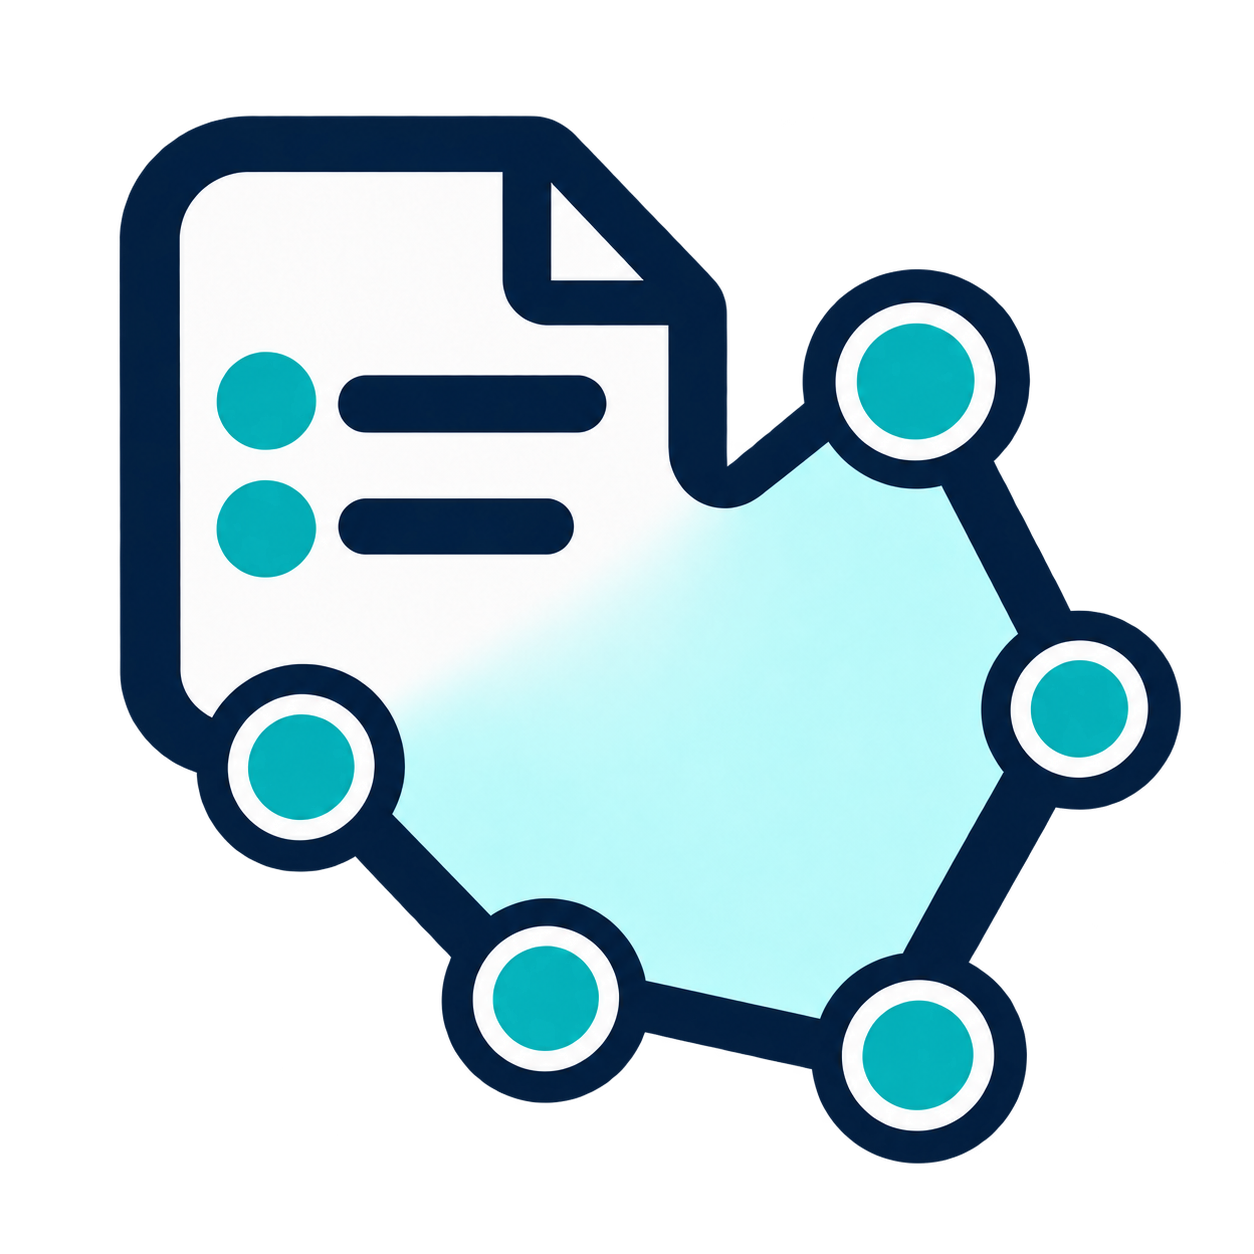
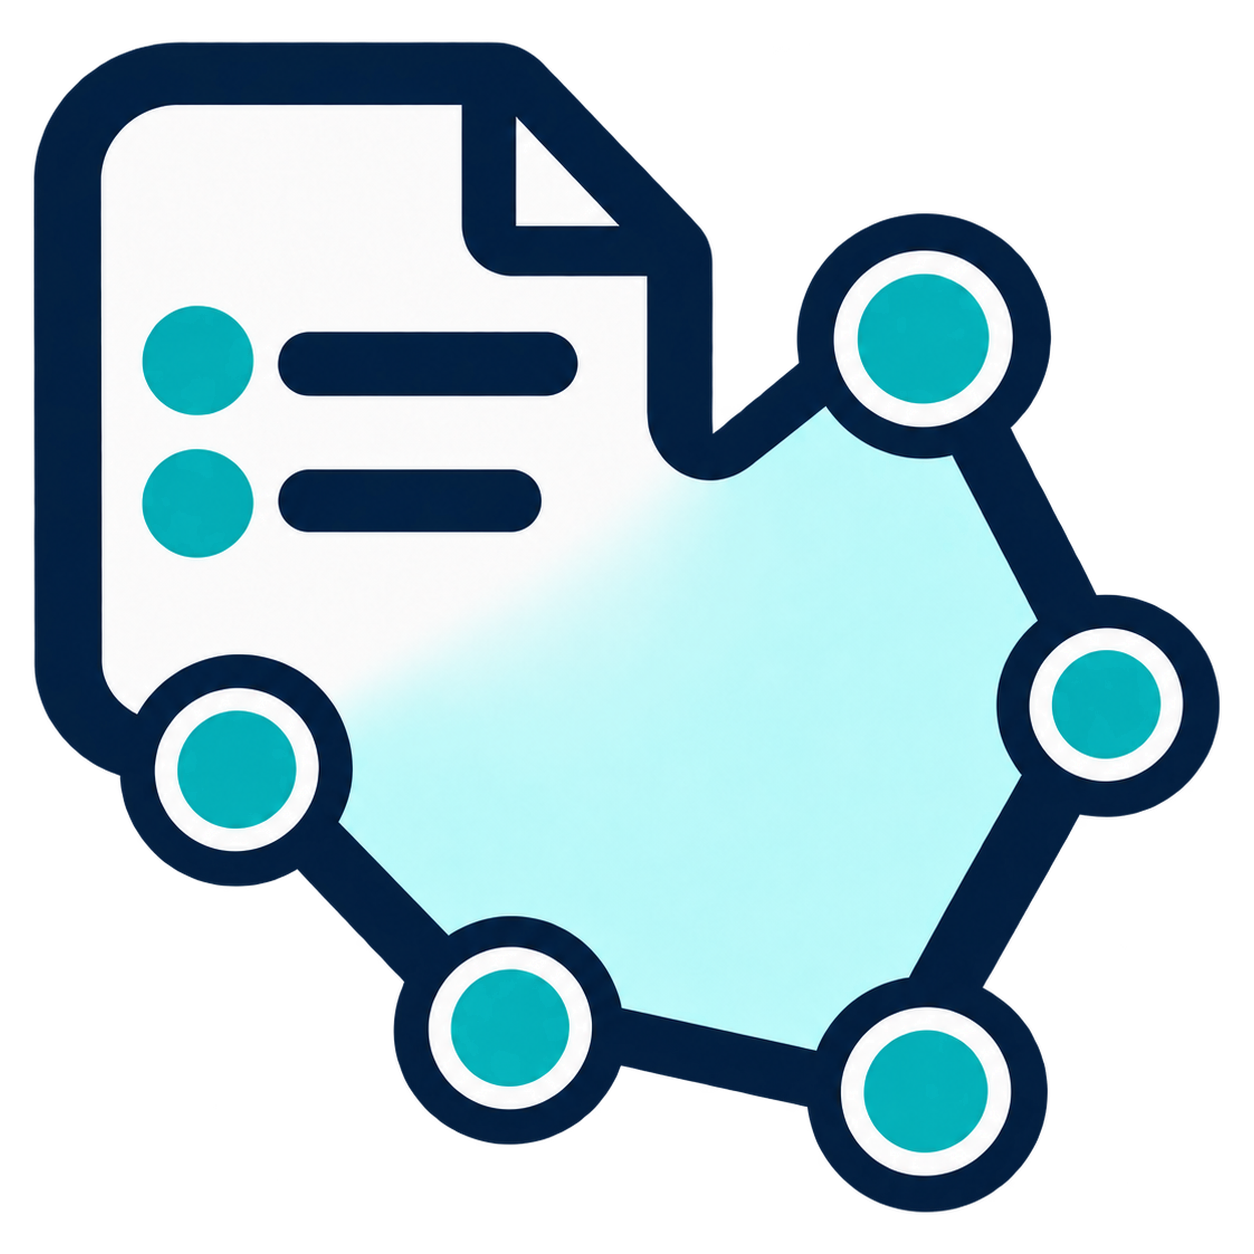
docs(readme): describe current workflow without download links

Changed region(s): [[0.0, 0.0311, 0.9952, 0.9641]]

diff --git a/README.md b/README.md
@@ -4,59 +4,98 @@
 
 <h1 align="center">SnapPlot</h1>
 <p align="center"><strong>From image to outline.</strong></p>
-<p align="center">Transforme imagens de quadros de coordenadas e memoriais em uma lista de pontos e um contorno para o AutoCAD.</p>
+<p align="center">Leia coordenadas em imagens, confira os pontos e prepare contornos para o AutoCAD.</p>
+
+O SnapPlot é um aplicativo para Windows que transforma quadros de coordenadas e memoriais em uma tabela editável, listas de pontos e contornos. O reconhecimento de texto acontece no próprio computador.
+
+![Interface do SnapPlot com imagens, tabela de coordenadas e contornos de dois polígonos](assets/snapplot-interface.png)
+
+*Interface do aplicativo no Windows, com imagens e coordenadas sintéticas de demonstração.*
 
 ## Da imagem ao desenho
 
-1. Adicione uma imagem, arraste capturas para a janela ou cole com **Ctrl+V**.
-2. Clique em **Ler imagem** e confirme as opções de leitura.
-3. Compare os pontos com a imagem e corrija as pendências.
-4. Salve a lista **TXT** ou gere o **SCR** para desenhar o contorno no AutoCAD.
+1. Use **Adicionar** para abrir imagens ou uma lista TXT. Também é possível arrastar arquivos para a janela ou colar imagens com **Ctrl+V**.
+2. Selecione as miniaturas e clique em **Ler imagem** ou **Ler selecionadas**. Use **Ler todas** para processar a fila inteira.
+3. Confirme o tipo de leitura, a ordem dos eixos e o formato dos números da imagem original.
+4. Compare a tabela com a imagem, edite os pontos necessários e marque os valores como conferidos.
+5. Confira os contornos e exporte a lista de coordenadas ou o script para o AutoCAD.
 
-![Conferência de coordenadas no SnapPlot](assets/snapplot-preview.png)
+## Conferência dos pontos
 
-*Aplicativo instalado no Windows, usando um quadro sintético de demonstração.*
+- Consulte a tabela, a **Lista normalizada** e o **Texto extraído** sem perder a imagem de origem.
+- Amplie a conferência para exibir a imagem e a tabela lado a lado, mantendo as três abas disponíveis.
+- Edite, exclua, insira e reordene pontos. Um novo ponto entra abaixo da linha selecionada ou no final da lista.
+- Selecione linhas e imagens por clique, **Ctrl**, **Shift** ou arraste. Clicar fora da área correspondente limpa a seleção.
+- Ao selecionar linhas, os pontos correspondentes ficam destacados no contorno.
+- Use **Ctrl+C** em uma linha para copiar o par E/X e N/Y. Na edição, **Ctrl+V** pode preencher as duas coordenadas de uma vez.
 
-## O que você pode fazer
+As linhas conferidas ficam verdes. O vermelho indica problemas que ainda precisam de intervenção, como valores ilegíveis, ambiguidades, duplicidades ou uma geometria inválida. A descrição aparece ao passar o mouse sobre a linha e no formulário de edição.
 
-- Ler quadros de coordenadas e pares N/E ou X/Y em memoriais.
-- Reunir várias imagens na mesma lista, mudar a ordem e selecionar imagens para ler ou apagar.
-- Consultar o texto extraído e a lista normalizada, com ponto decimal e sem separadores de milhar.
-- Preservar os identificadores dos pontos presentes no documento.
-- Ampliar a imagem, a tabela e a prévia do contorno para facilitar a conferência.
-- Exportar TXT, CSV e scripts SCR para o AutoCAD.
+A falta de conferência, sozinha, não é um erro. Quando o app preenche um identificador ausente, isso fica registrado como informação de origem. A confiança do reconhecimento pode ser consultada na coluna **OCR**.
 
-O reconhecimento acontece **localmente**: as imagens não são enviadas ao GitHub. A conexão é usada para consultar e baixar atualizações. O OCR pode cometer erros; confira as coordenadas e os identificadores antes de exportar. O SnapPlot não converte datum, fuso ou projeção.
+## Vários polígonos no mesmo projeto
 
-## Requisitos
+Cada polígono tem uma letra e uma cor próprias. O primeiro usa **P** por padrão; ao criar outros, escolha uma letra diferente.
 
-- Windows 10 ou Windows 11, 64 bits, processador x64.
-- Não é necessário instalar Python nem ferramentas de desenvolvimento.
-- Internet para baixar o instalador e receber atualizações; a leitura das imagens funciona sem conexão.
-- AutoCAD ou aplicativo compatível para executar o SCR exportado.
+Você pode associar imagens ou pontos selecionados a um grupo existente, criar outro grupo ou copiar pontos mantendo os originais. Ao mover pontos, o app permite escolher se os pontos restantes da origem devem ser renumerados.
 
-## Instalação
+Um novo polígono começa no ponto **01**. Adicionar pontos a um grupo existente continua a sequência desse grupo. Os identificadores são adaptados ao destino quando necessário, mantendo o registro da origem.
 
-1. Baixe **SnapPlot-Setup.exe** na versão desejada.
-2. Abra o instalador e siga o assistente.
-3. Confirme a pasta de instalação ou escolha outra.
-4. Se desejar, marque **Criar atalho na Área de Trabalho**.
+Os filtros coloridos permitem comparar os grupos na mesma tabela e visualizar seus contornos juntos, na mesma escala. As miniaturas recebem bordas com a cor do polígono associado.
 
-A pasta padrão é `%LOCALAPPDATA%\Programs\SnapPlot`. A instalação é feita para o seu usuário. O SnapPlot também fica disponível no menu Iniciar e pode ser removido em **Configurações → Aplicativos** do Windows.
+## Visualização do contorno
 
-## Atualizações
+Na prévia, confira a forma e os pontos destacados pela seleção da tabela. No modo ampliado, você pode:
 
-Quando houver uma versão mais recente, uma barra discreta aparecerá no aplicativo. Clique em **Atualizar** para baixar o instalador em segundo plano. Ao terminar, o SnapPlot guarda uma cópia da sessão, abre o instalador e fecha para permitir a atualização. A sessão é restaurada na próxima abertura.
+- Aproximar ou afastar com a roda do mouse e deslocar a vista arrastando com o botão esquerdo.
+- Usar **Ajustar à janela** para reenquadrar os polígonos visíveis.
+- Exibir ou ocultar os nomes dos pontos, posicionados fora dos contornos quando há espaço.
+- Clicar em um ponto para editar ou excluir, atualizando a tabela.
+- Filtrar polígonos pelos controles na parte inferior e consultar a rosa dos ventos fixa.
 
-Você também pode baixar e executar o instalador manualmente. Ele atualiza versões anteriores na pasta existente, preserva suas configurações e informa quando a mesma versão ou uma mais recente já está instalada. Uma cópia dos arquivos da versão anterior fica em `%LOCALAPPDATA%\SnapPlot\Backups`.
+Área e perímetro são apresentados em **m²** e **m** para coordenadas em metros. Para comparar polígonos, use coordenadas no mesmo sistema de referência e com unidades compatíveis. O app não transforma datum, fuso, projeção ou latitude/longitude.
 
-Se estiver usando uma versão portátil antiga, execute o instalador uma vez para criar a instalação gerenciada. Depois, abra o app pelo novo atalho; a pasta portátil antiga continua separada.
+## Importação e exportação
 
-## Versões e suporte
+O TXT usa o formato **Ponto, E/X, N/Y,** com ponto decimal, sem separadores de milhar e com vírgula final:
 
-- [Histórico de versões e downloads](https://github.com/Andre-ARS/SnapPlot_Releases/releases)
-- [Relatar um problema ou sugerir uma melhoria](https://github.com/Andre-ARS/SnapPlot_Releases/issues/new)
+```text
+P01, 333640.0000, 7717000.0000,
+P02, 333730.0000, 7717000.0000,
+P03, 333785.0000, 7717032.0000,
+```
 
-Ao relatar um problema, informe a versão do SnapPlot, a versão do Windows e os passos para reproduzir. Se compartilhar imagens, use exemplos sem dados pessoais ou confidenciais.
+Ao importar um TXT, escolha o polígono de destino. Os nomes do arquivo são adaptados à letra e à sequência desse grupo; as coordenadas e os identificadores de origem são preservados para consulta.
 
-As versões `0.x` ainda estão em desenvolvimento. O aplicativo sinaliza leituras ambíguas para conferência; não presume que todo resultado do OCR esteja correto.
+| Formato | Uso |
+| --- | --- |
+| **TXT** | Lista normalizada de identificadores e coordenadas E/N. |
+| **CSV** | Conferência em planilhas, incluindo informações dos pontos e de seus polígonos. |
+| **SCR** | Script para desenhar os contornos no AutoCAD. Cada polígono usa uma polilinha independente. |
+
+Quando há vários polígonos, a exportação TXT/SCR permite reunir todos em um arquivo, selecionar quais incluir ou salvar um arquivo por polígono em um ZIP.
+
+No AutoCAD, encerre os comandos ativos e use **SCRIPT** para abrir o SCR. Confira as unidades e o sistema de coordenadas do desenho antes de executar o script.
+
+## Instalação e atualizações
+
+Os instaladores e os arquivos de verificação são disponibilizados exclusivamente na seção **Releases** deste repositório.
+
+A instalação é feita para o usuário do Windows e permite escolher a pasta e criar um atalho na Área de Trabalho. O aplicativo também fica disponível no menu Iniciar e pode ser removido pelas configurações do Windows.
+
+Quando houver uma atualização disponível, o app exibe uma barra de aviso. Ao escolher **Atualizar**, ele guarda a sessão, abre o instalador e fecha para permitir a instalação. A sessão é restaurada na próxima abertura.
+
+## Requisitos e dados locais
+
+- Windows 10 ou 11 de 64 bits, em computador com processador x64.
+- Não é necessário instalar Python ou ferramentas de desenvolvimento.
+- A leitura de imagens locais funciona sem conexão. A consulta e a obtenção de atualizações usam a internet; importar uma imagem por um endereço da web também usa a rede.
+- Para executar scripts SCR, é necessário o AutoCAD ou um aplicativo compatível com esse formato.
+
+As imagens e coordenadas são processadas localmente para o reconhecimento de texto. O OCR pode errar sinais, separadores ou algarismos: compare os resultados com o documento antes de usá-los no desenho.
+
+## Suporte
+
+Para relatar um problema ou sugerir uma melhoria, [abra uma issue](https://github.com/Andre-ARS/SnapPlot_Releases/issues/new).
+
+Informe a versão do aplicativo, a edição do Windows e os passos para reproduzir. Use exemplos sem dados pessoais ou confidenciais ao compartilhar imagens e coordenadas.
